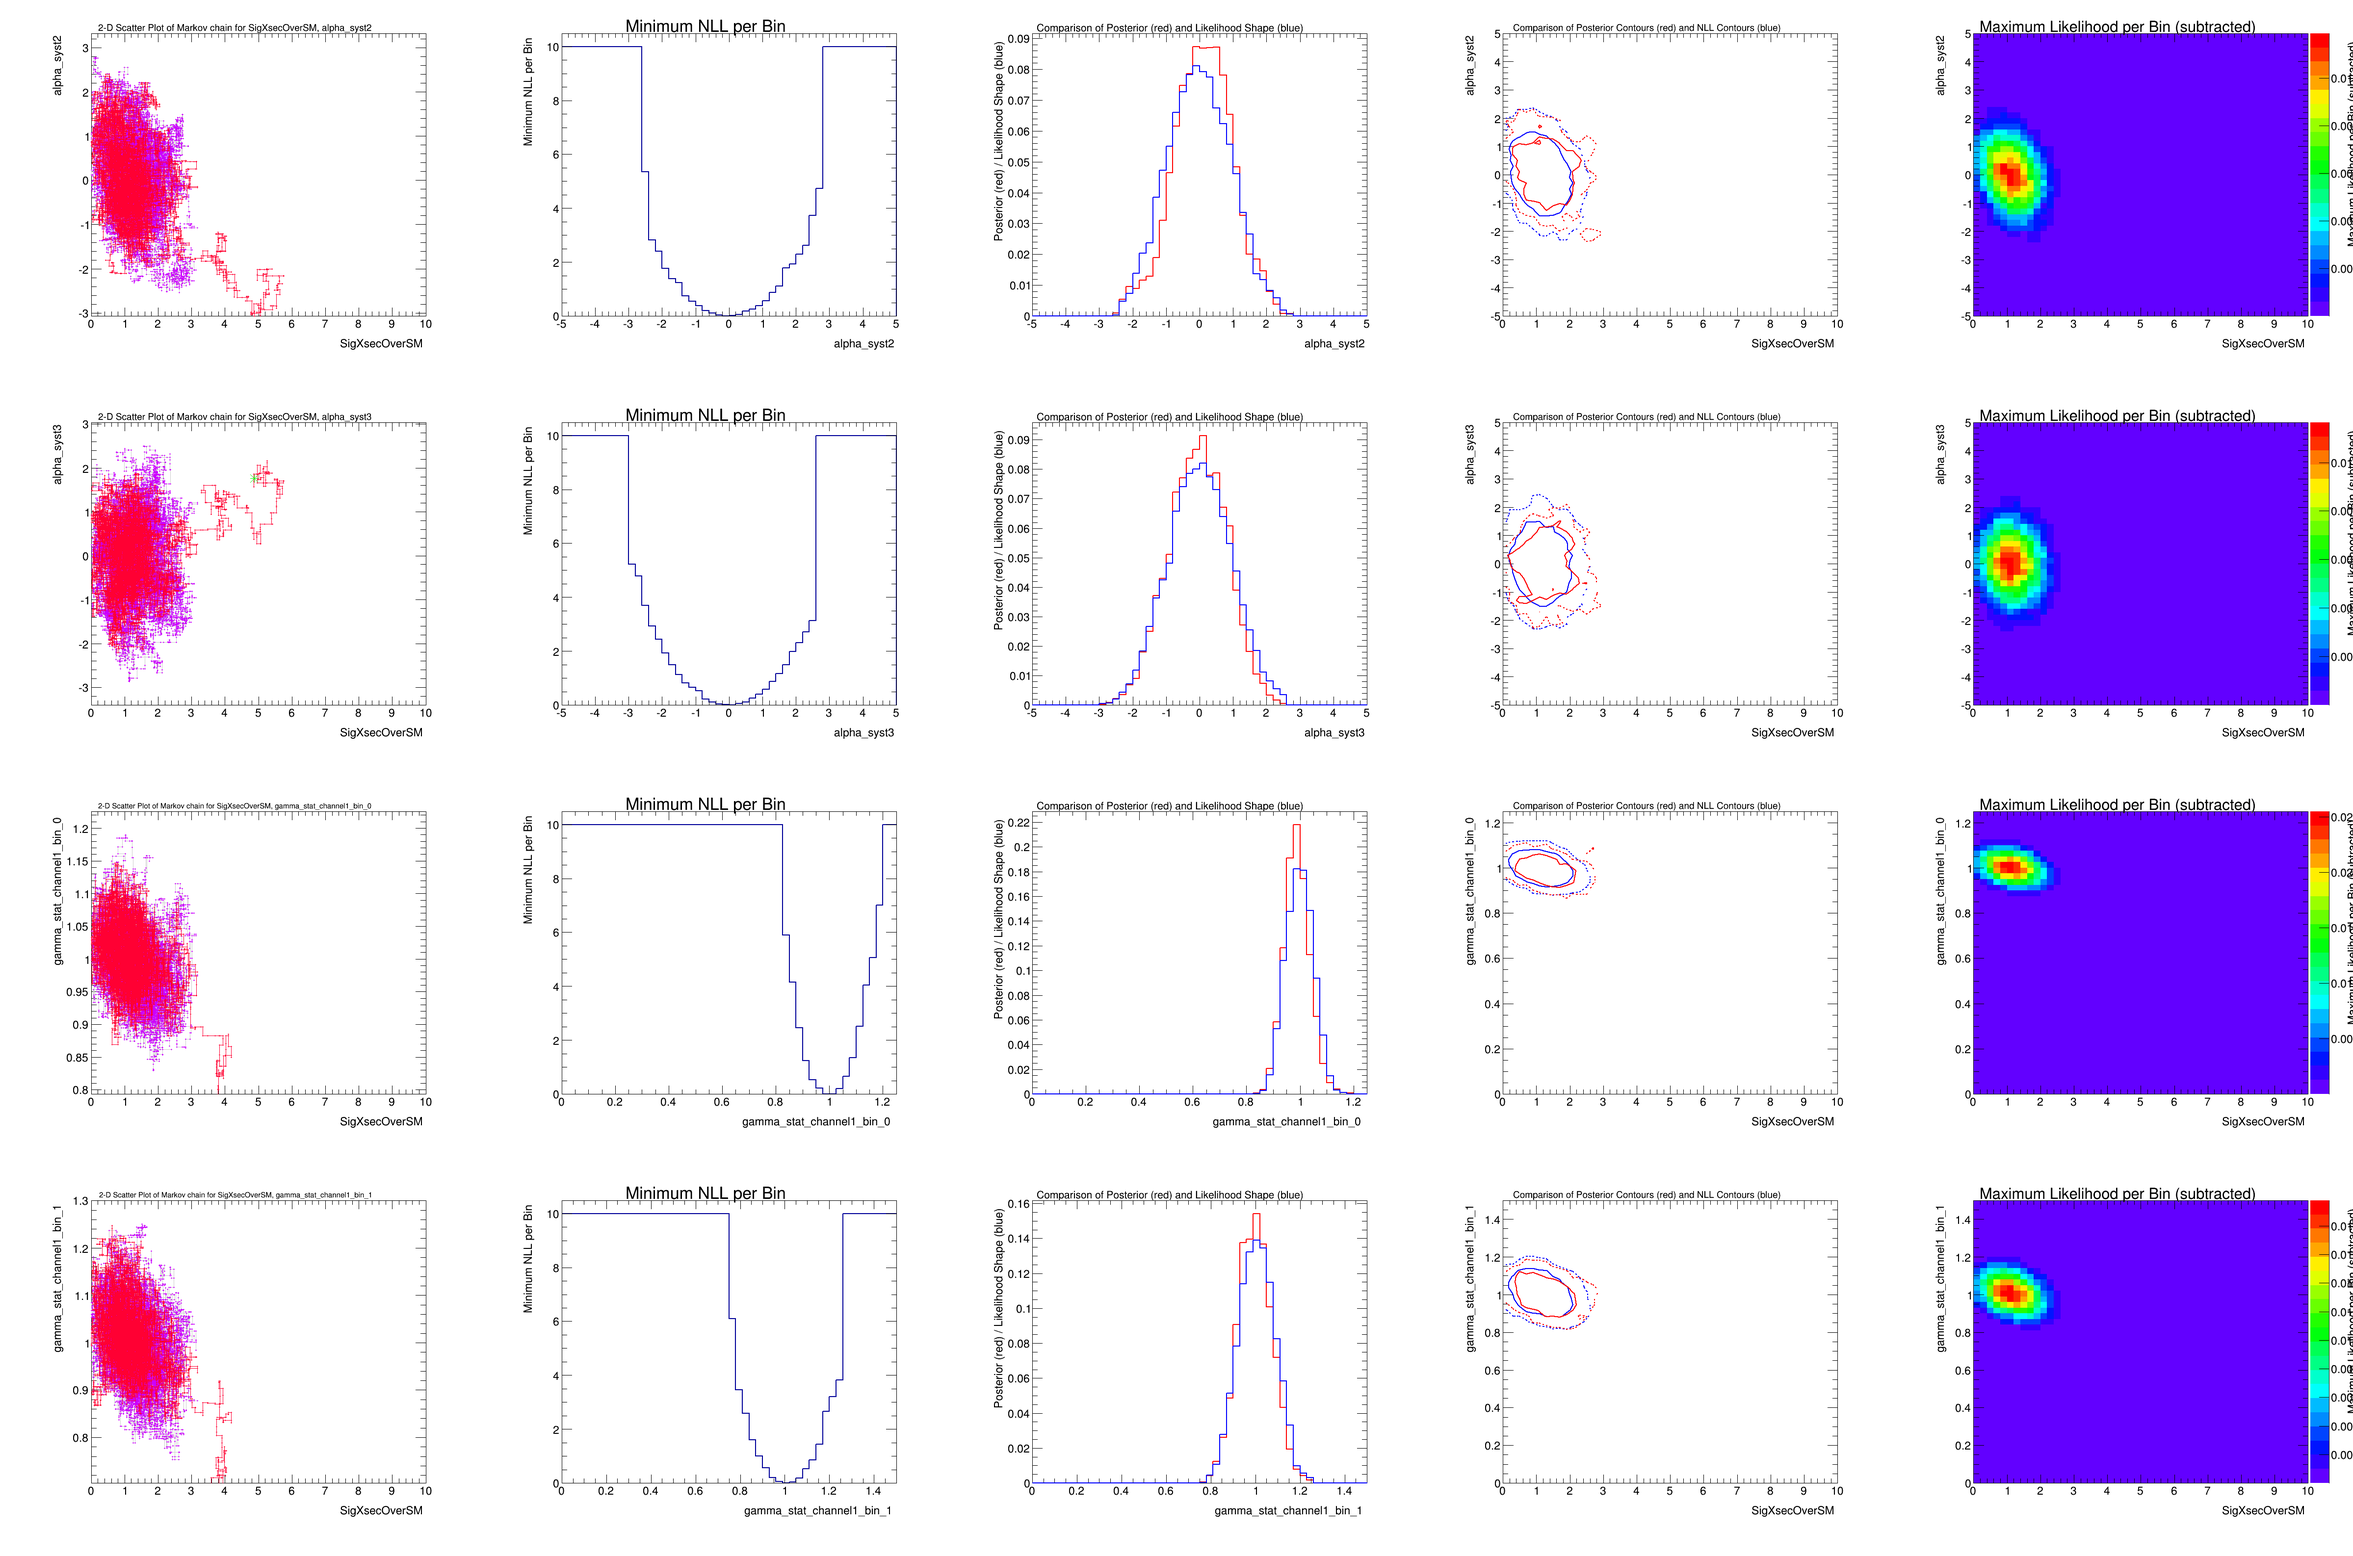
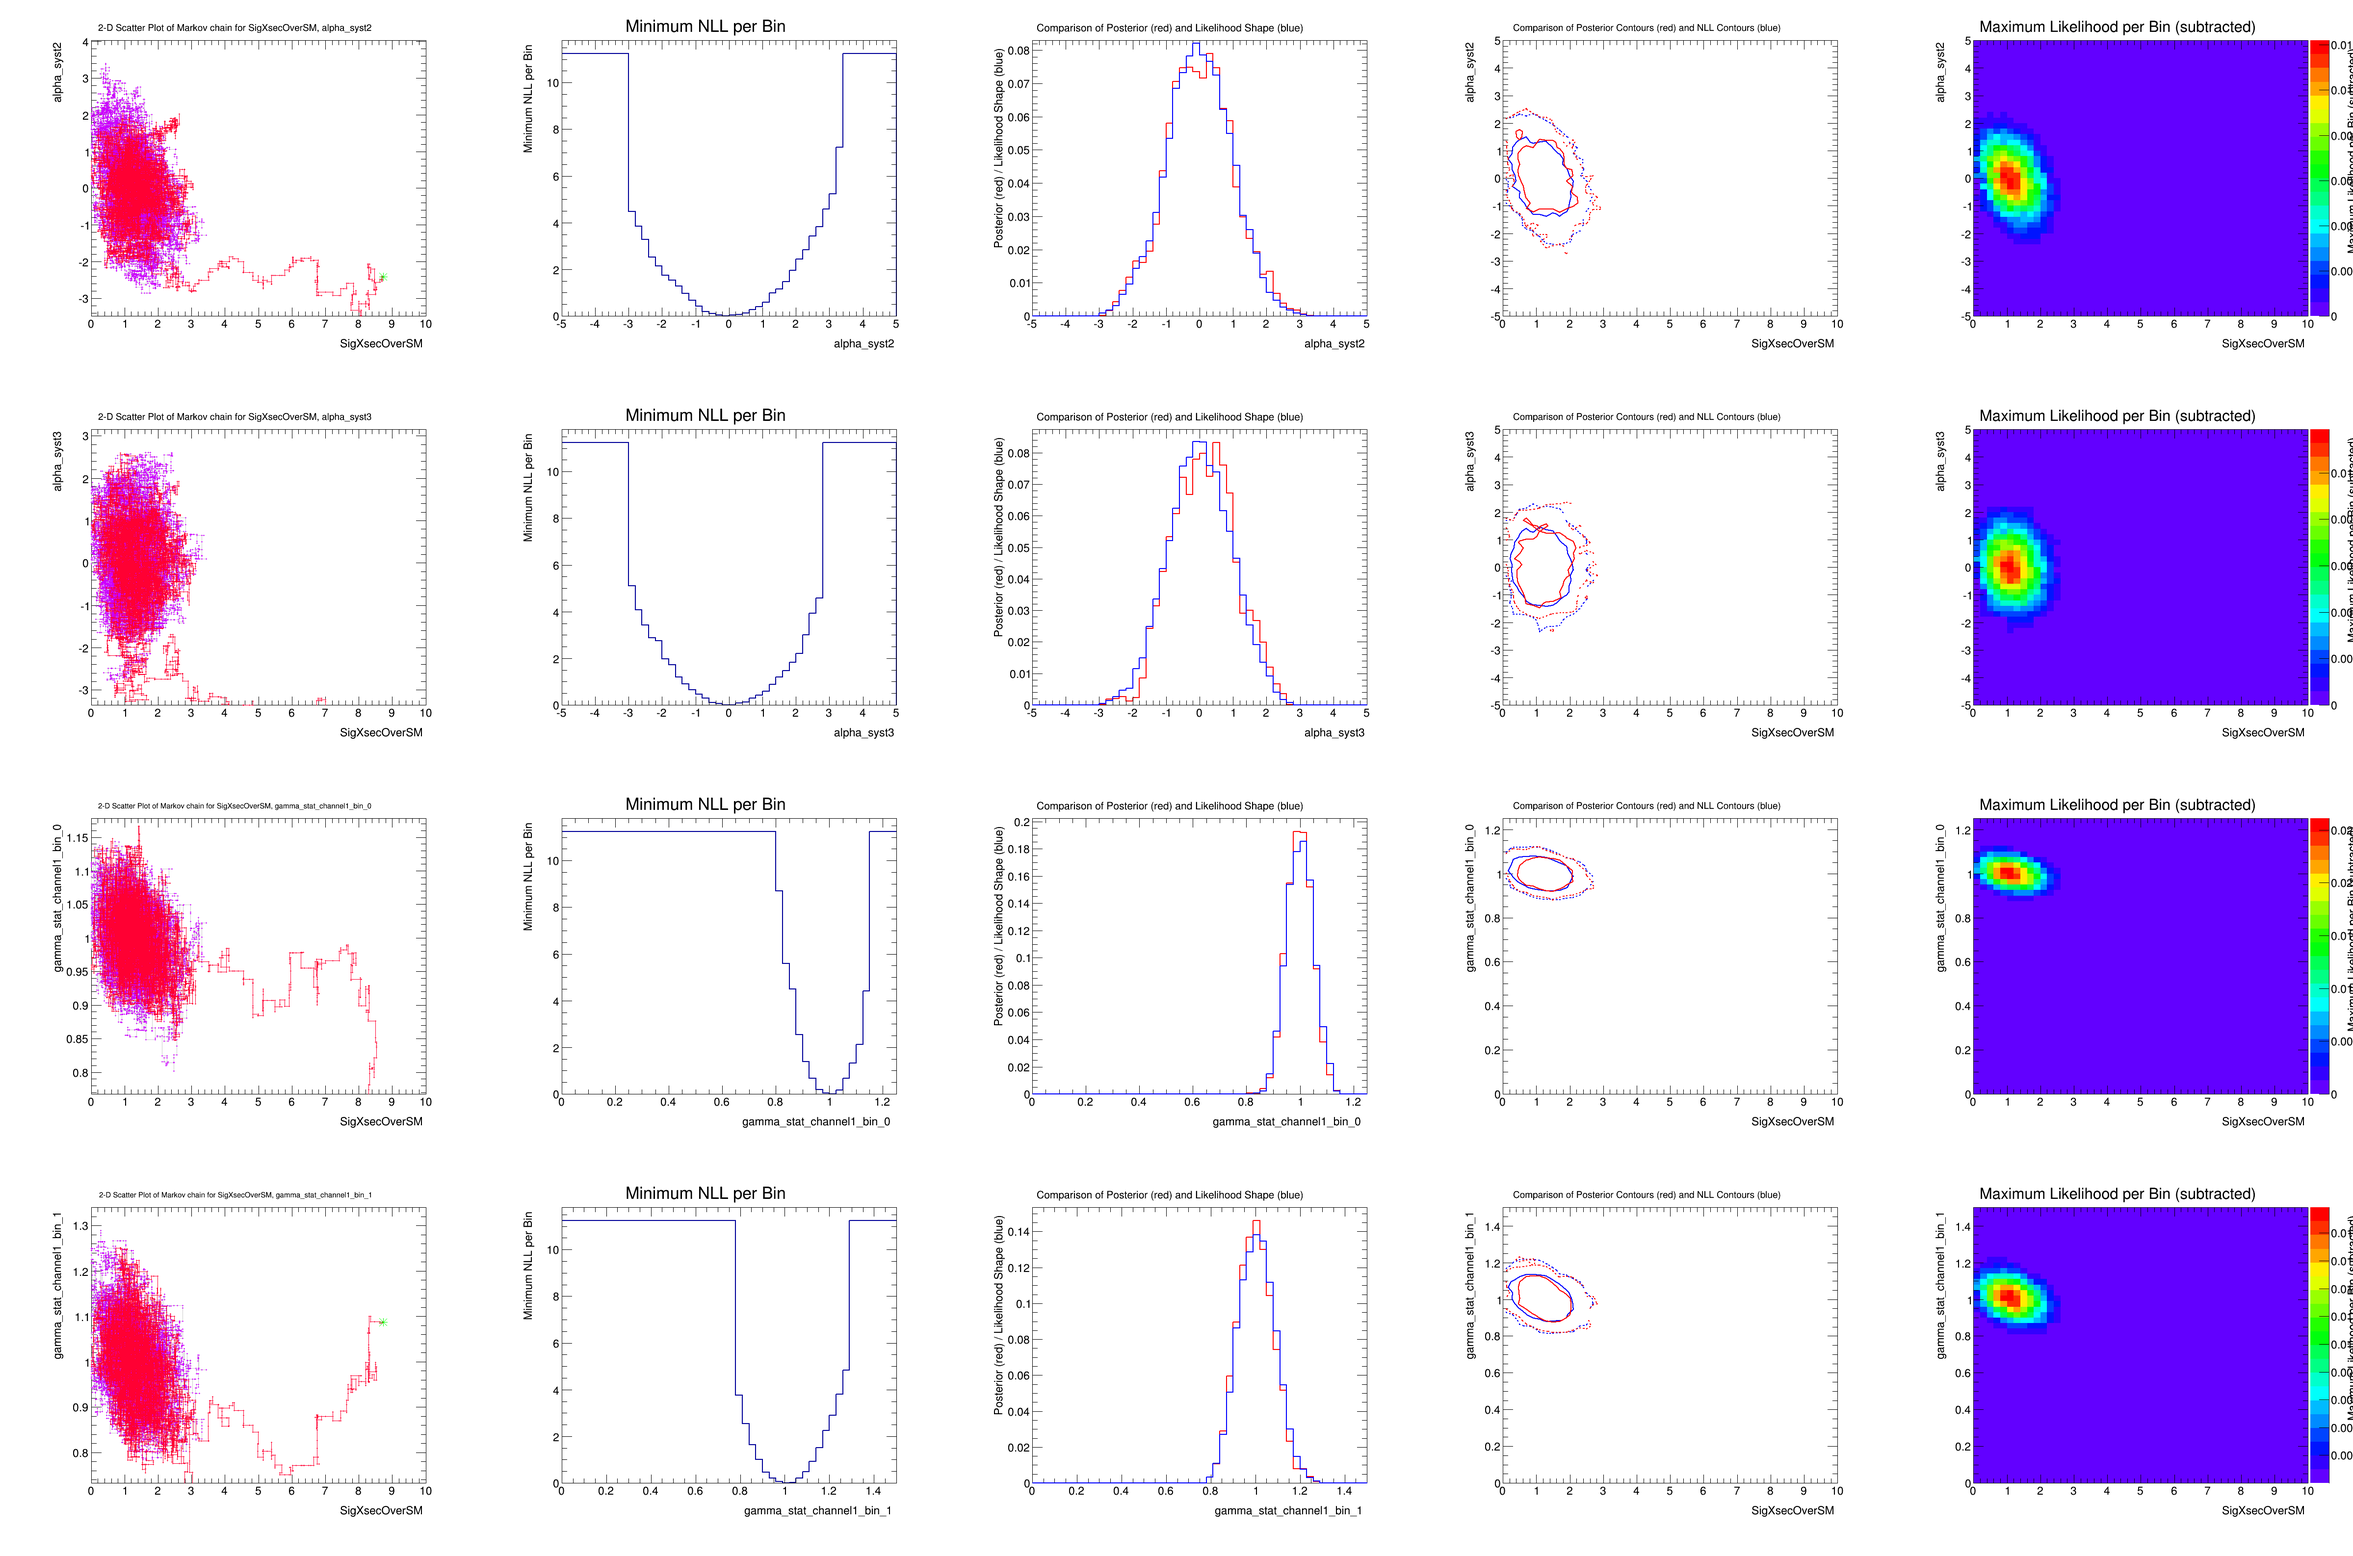
Removing unused code from SequentialProposalDemo. Update plots.

diff --git a/tutorials/roostats/py/SequentialProposalDemo.py b/tutorials/roostats/py/SequentialProposalDemo.py
@@ -101,22 +101,6 @@ def main():
    listNuisPars = ROOT.RooArgList( mc.GetNuisanceParameters() )
 
 
-   # this proposal function seems fairly robust
-   #SequentialProposal sp(0.1);
-   # [#1] INFO:Eval -- Proposal acceptance rate: 20.0123%
-   # [#1] INFO:Eval -- Number of steps in chain: 200123
-   # 
-   # 95% interval on SigXsecOverSM is : [0, 2.15359] 
-   #
-   # Use factor 10 oversampling on parametersOfInterest
-   #SequentialProposal sp(0.1, *mc->GetParametersOfInterest(), 3);
-   # Factor 3:
-   # [#1] INFO:Eval -- Proposal acceptance rate: 18.0398%
-   # [#1] INFO:Eval -- Number of steps in chain: 180398
-   # 
-   # 95% interval on SigXsecOverSM is : [0, 2.15503] 
-   #SequentialProposal sp(10, *mc->GetParametersOfInterest(), 3);
-   
    # We want to create an overview using the following proposal functions
    proposalFunctions = [
          { "proposal": ROOT.RooStats.SequentialProposal(10), 
